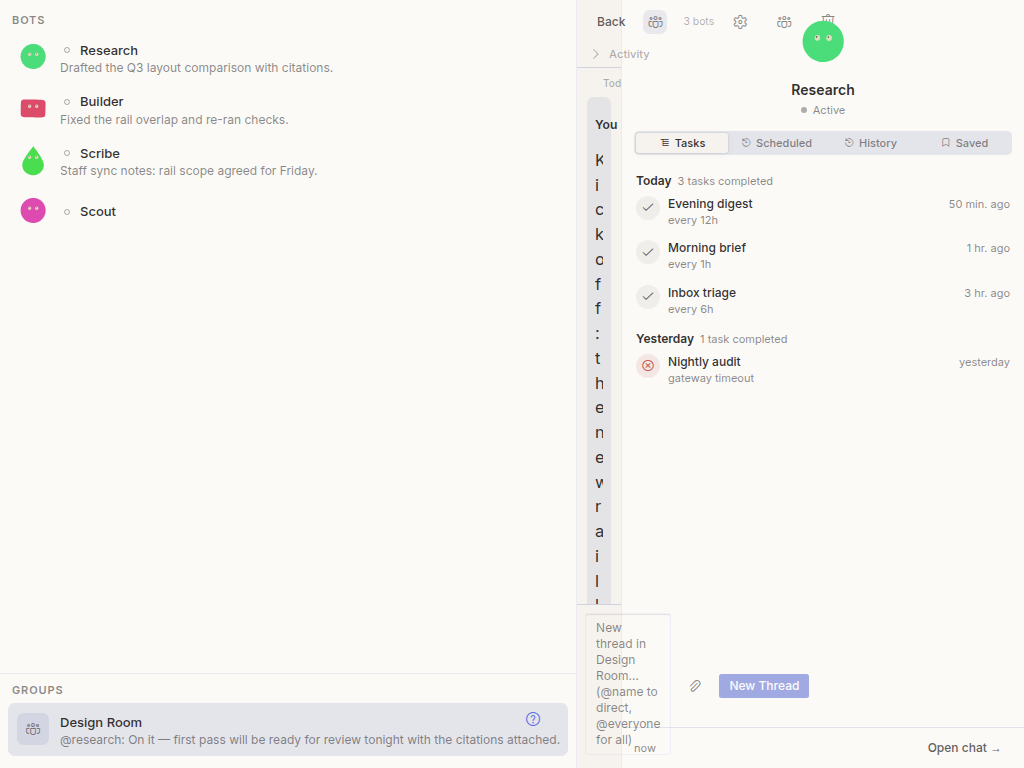
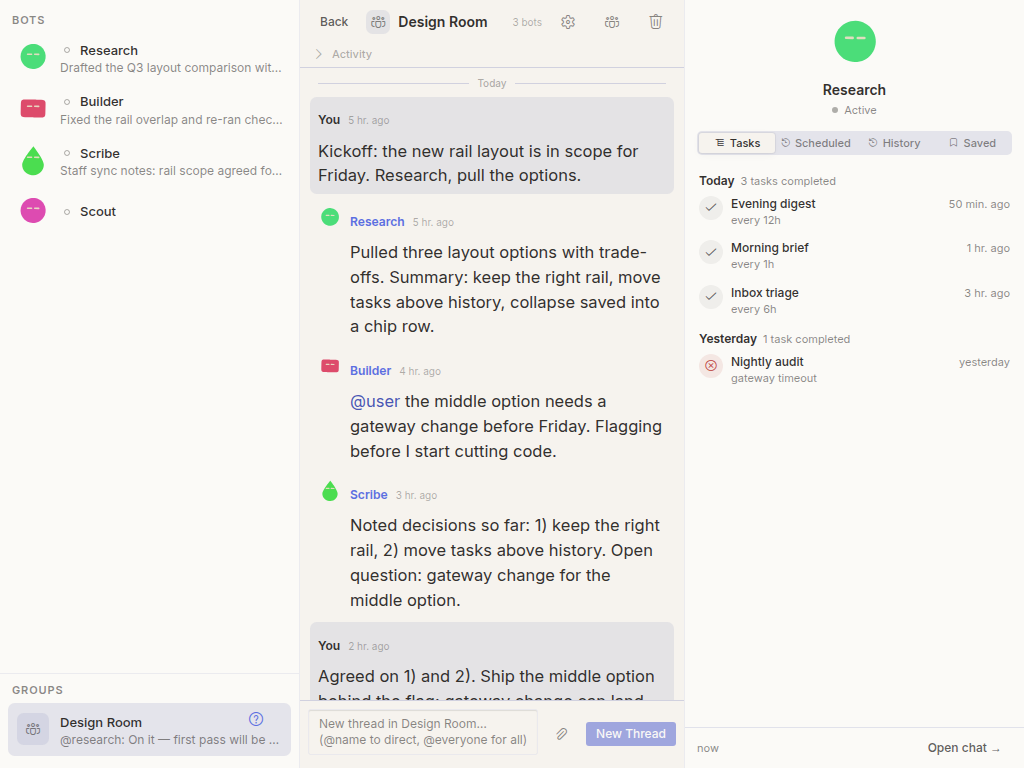
preview: import styles.css in the botmode harness instead of pinning a built hash
The harness linked /dist-webapp/assets/main-DATOJCfe.css — a content hash
that went stale on the first rebuild, so every capture since rendered the
real components against browser-default styling. Import @/styles.css like
every sibling preview and re-shoot: the shots now show the warm-paper
skin, and stop depending on a build artifact.

diff --git a/apps/desktop/preview/botmode/botmode.tsx b/apps/desktop/preview/botmode/botmode.tsx
@@ -37,6 +37,8 @@ import { $activeGatewayProfile } from '@/store/profile'
 import { $connection, $gatewayState } from '@/store/session'
 import { skinPref, ThemeProvider } from '@/themes/context'
 
+import '@/styles.css'
+
 import { FIXTURE_LOG, FIXTURE_MEMBERS, FIXTURE_ROOM, FIXTURE_ROSTER, ROUTINE_JOBS } from './fixtures'
 
 // --- offline seams -----------------------------------------------------------

diff --git a/apps/desktop/preview/botmode/botmode.html b/apps/desktop/preview/botmode/botmode.html
@@ -5,8 +5,6 @@
     <meta name="viewport" content="width=device-width,initial-scale=1" />
     <title>Bot Mode (offline harness)</title>
     <link rel="icon" href="data:," />
-    <!-- The SAME compiled app CSS the live renderer ships. -->
-    <link rel="stylesheet" href="/dist-webapp/assets/main-DATOJCfe.css" />
     <style>
       html,
       body,
